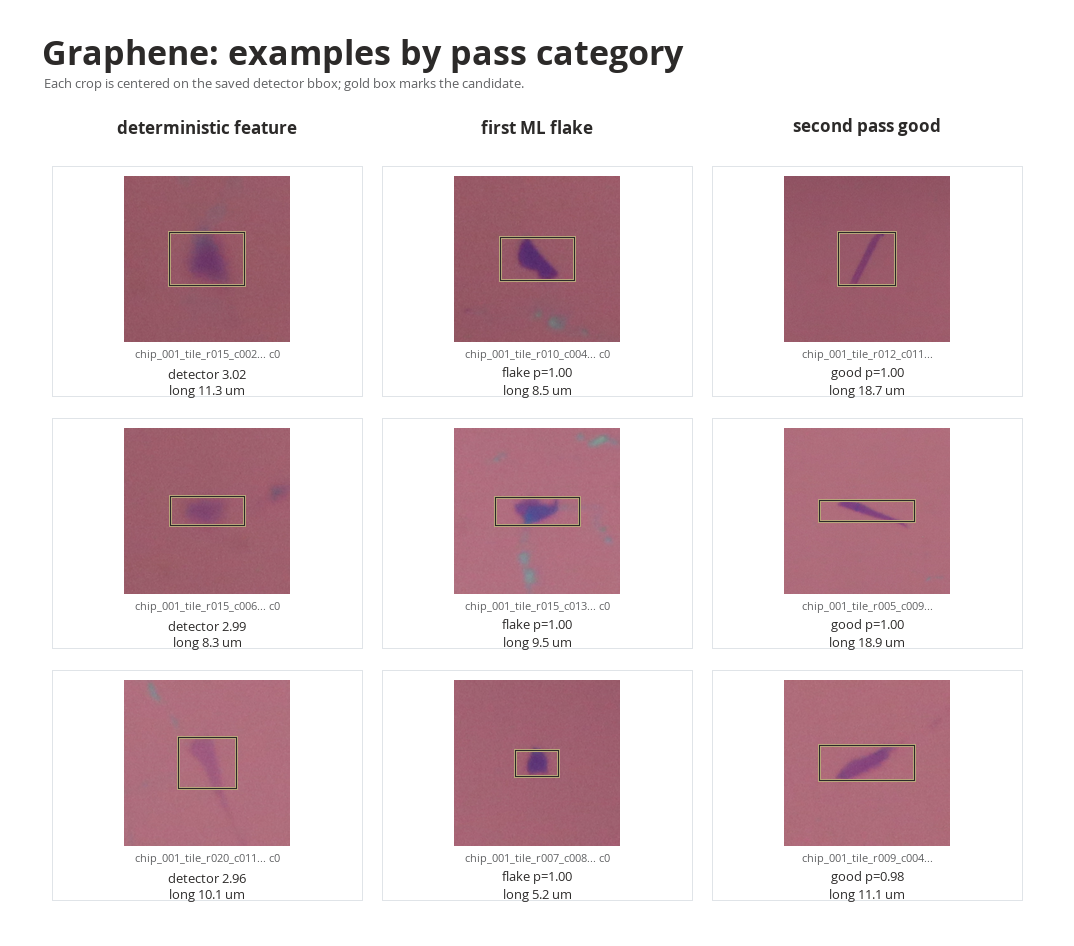
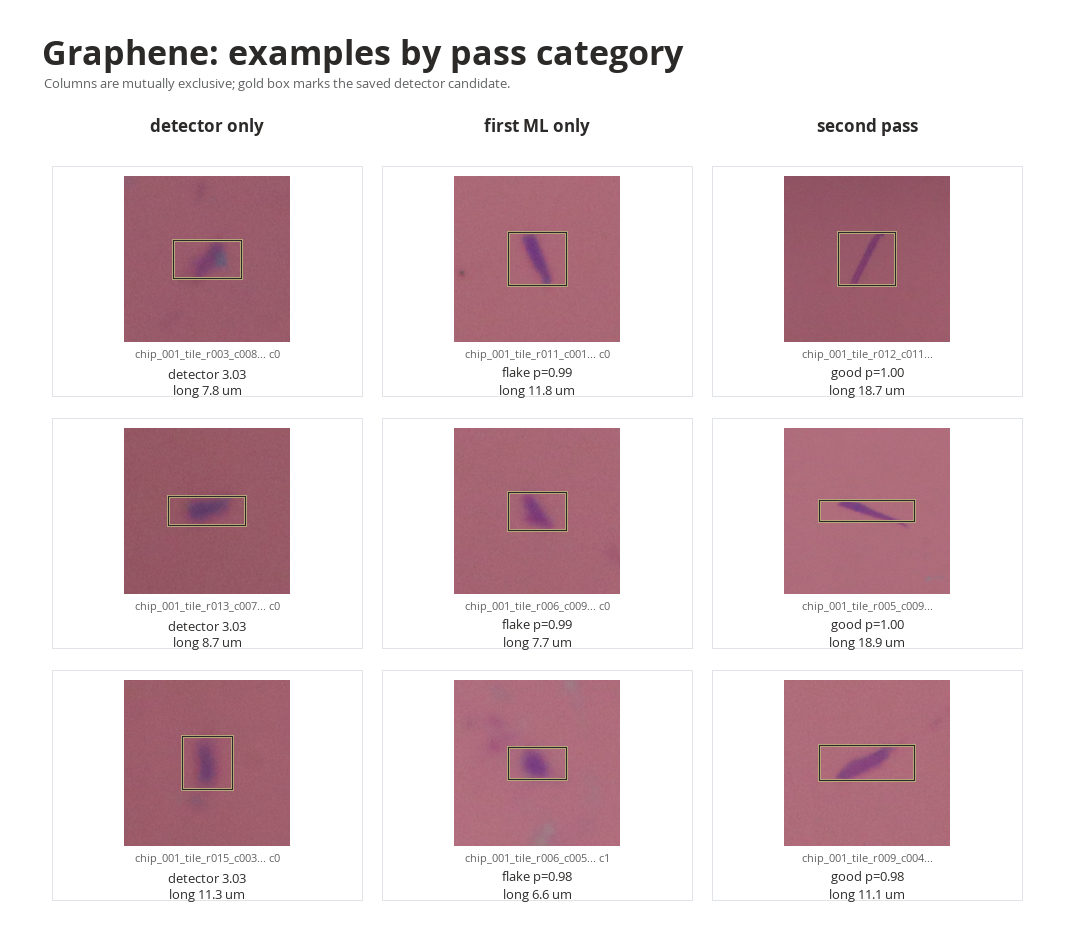
Clarify pass category grids

diff --git a/scripts/build_pass_performance_report_assets.py b/scripts/build_pass_performance_report_assets.py
@@ -506,6 +506,14 @@ def label_for(row: dict[str, Any], kind: str) -> list[str]:
     return [part for part in [first, second, third] if part]
 
 
+def passes_first_ml(row: dict[str, Any]) -> bool:
+    if not bool(row.get("predicted_flake")):
+        return False
+    if "predicted_usable_thickness" in row and not bool(row.get("predicted_usable_thickness")):
+        return False
+    return True
+
+
 def category_grid(
     material: str,
     all_rows: list[dict[str, Any]],
@@ -515,17 +523,17 @@ def category_grid(
     good_ids = {r.get("candidate_id") for r in good_rows if r.get("predicted_good")}
     columns = [
         (
-            "deterministic feature",
-            select_rows(all_rows, lambda r: not bool(r.get("predicted_flake")), "detector_score", n=3),
+            "detector only",
+            select_rows(all_rows, lambda r: not passes_first_ml(r), "detector_score", n=3),
             "det",
         ),
         (
-            "first ML flake",
-            select_rows(all_rows, lambda r: bool(r.get("predicted_flake")), "flake_probability", n=3, excluded_ids=good_ids),
+            "first ML only",
+            select_rows(all_rows, passes_first_ml, "flake_probability", n=3, excluded_ids=good_ids),
             "first",
         ),
         (
-            "second pass good",
+            "second pass",
             select_rows(good_rows, lambda r: bool(r.get("predicted_good")), "good_probability", n=3),
             "good",
         ),
@@ -538,7 +546,7 @@ def category_grid(
     img = Image.new("RGB", (width, height), BG)
     draw = ImageDraw.Draw(img)
     draw.text((42, 28), f"{material}: examples by pass category", font=FONT["title"], fill=INK)
-    draw.text((44, 74), "Each crop is centered on the saved detector bbox; gold box marks the candidate.", font=FONT["small"], fill=MUTED)
+    draw.text((44, 74), "Columns are mutually exclusive; gold box marks the saved detector candidate.", font=FONT["small"], fill=MUTED)
     start_y = 38 + title_h
     thumb_size = (292, 166)
     for ci, (header, rows, kind) in enumerate(columns):

diff --git a/docs/pass_performance_report_2026-07-13.md b/docs/pass_performance_report_2026-07-13.md
@@ -70,7 +70,7 @@ One bookkeeping caveat: the BN1r2 post-scan summary is marked `material: hbn`, b
 
 ## Visual Category Grids
 
-These grids show what the three pass categories look like in practice. The first column is a deterministic feature that did not pass first ML. The second is a first-pass ML flake that was not one of the final good picks. The third is a second-pass good candidate.
+These grids show what the three pass categories look like in practice. The first column passed the deterministic detector but did not pass the first ML selection. The second passed the first ML selection but not the second-pass good-flake threshold. The third passed the second-pass threshold.
 
 ![Graphene category grid](assets/pass_performance_2026_07_13/flake_category_grid_graphene.png)
 
